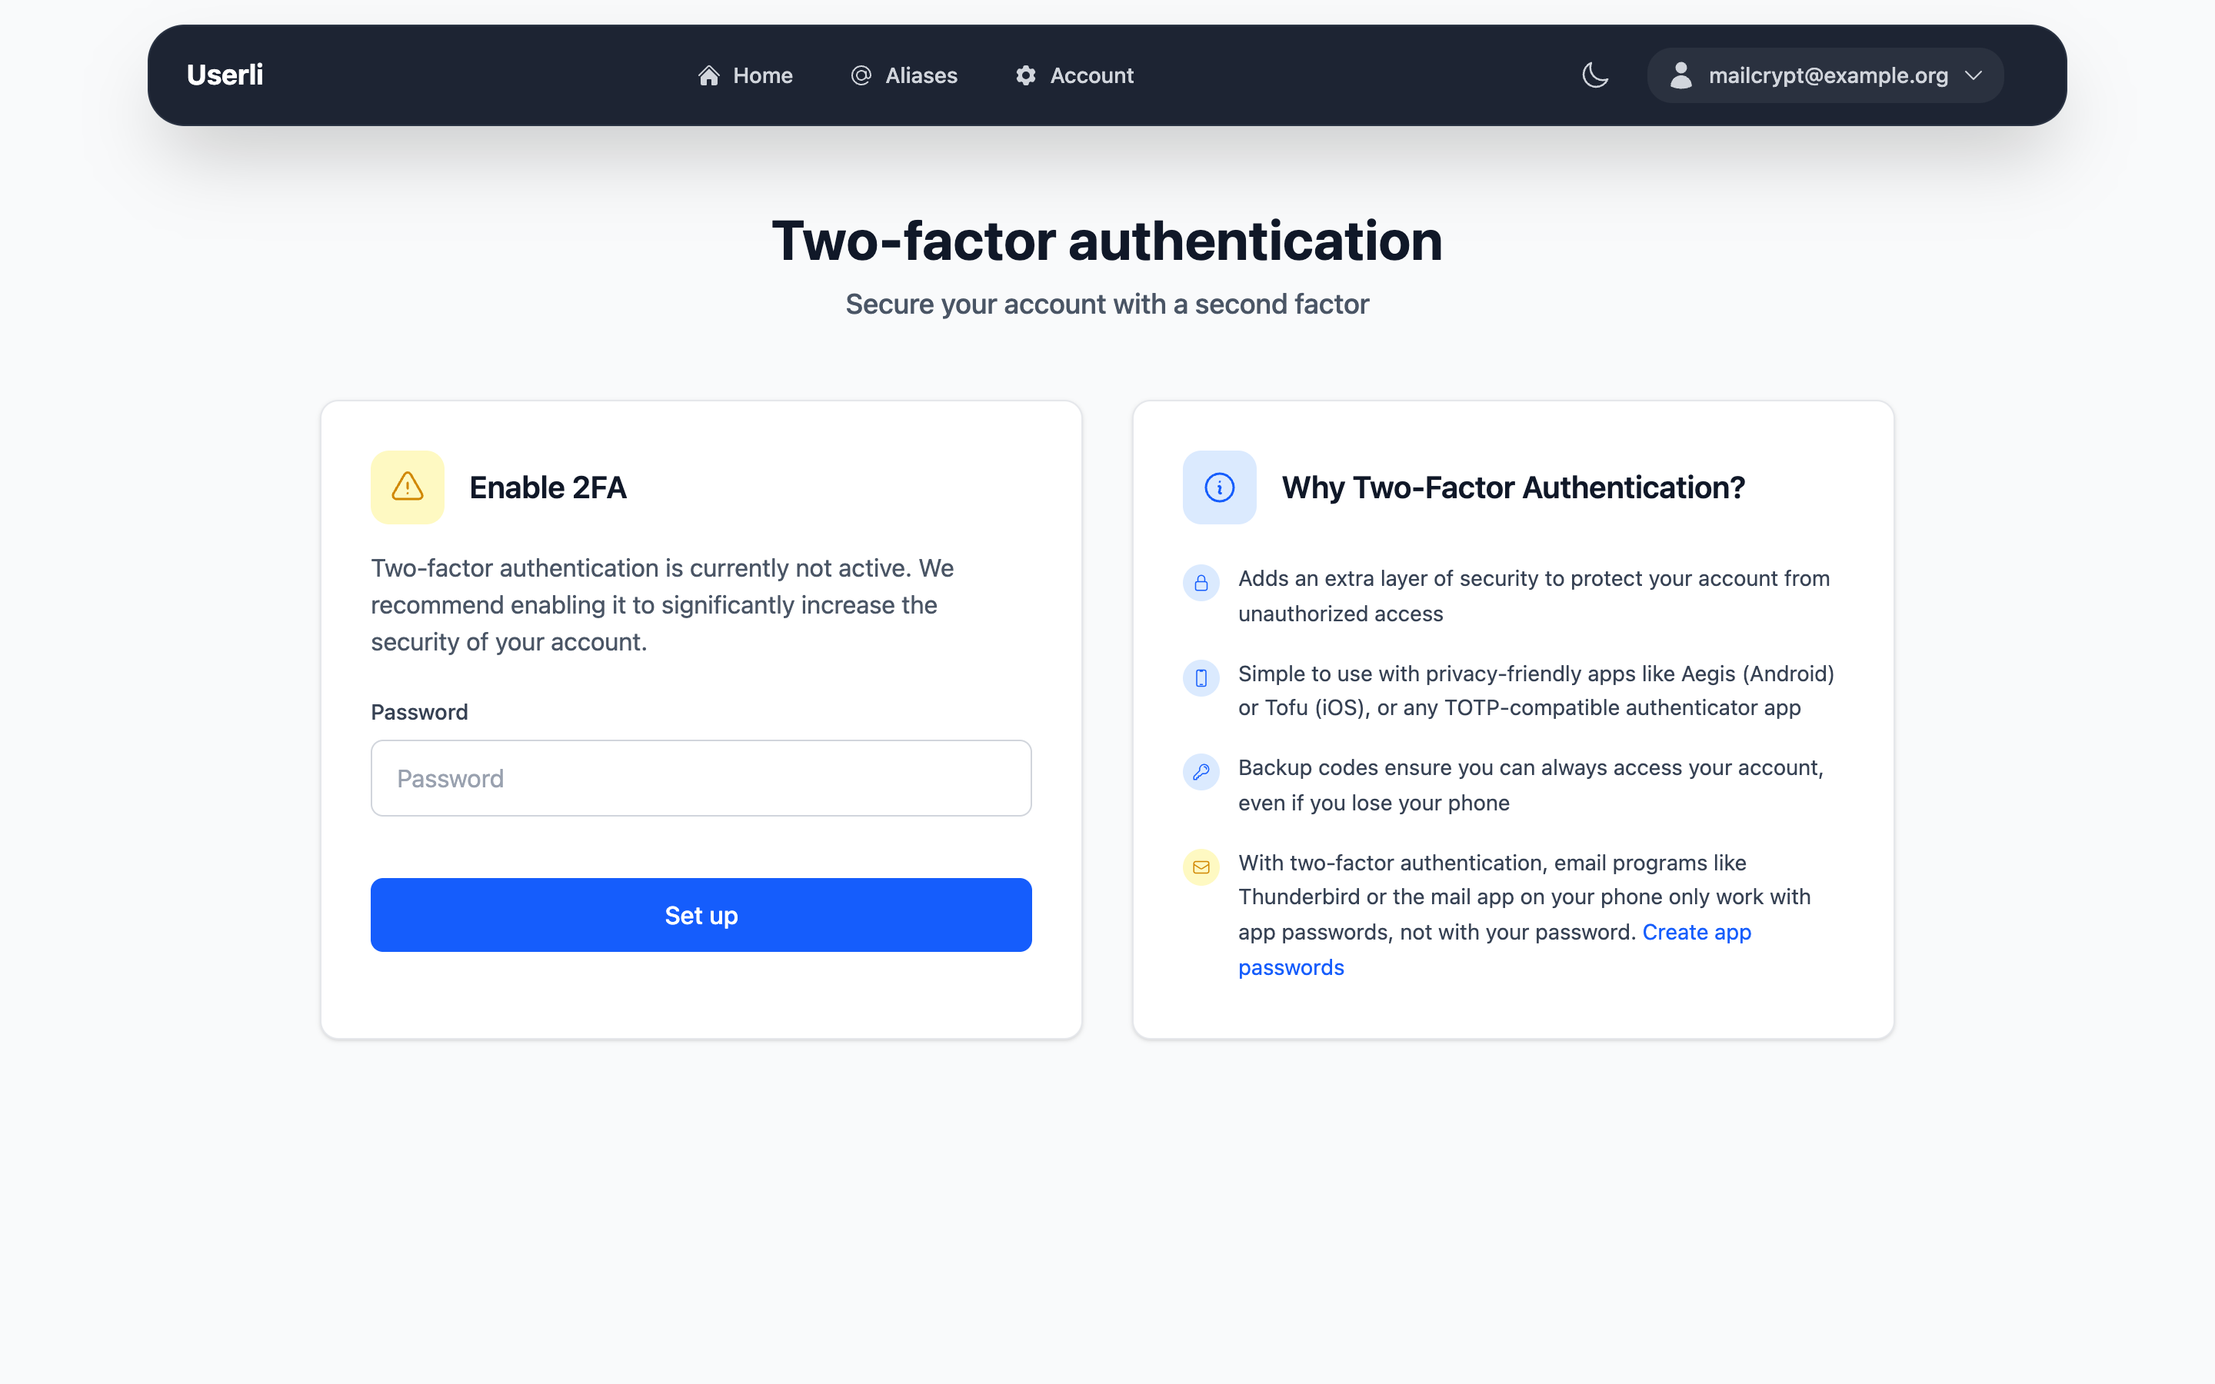
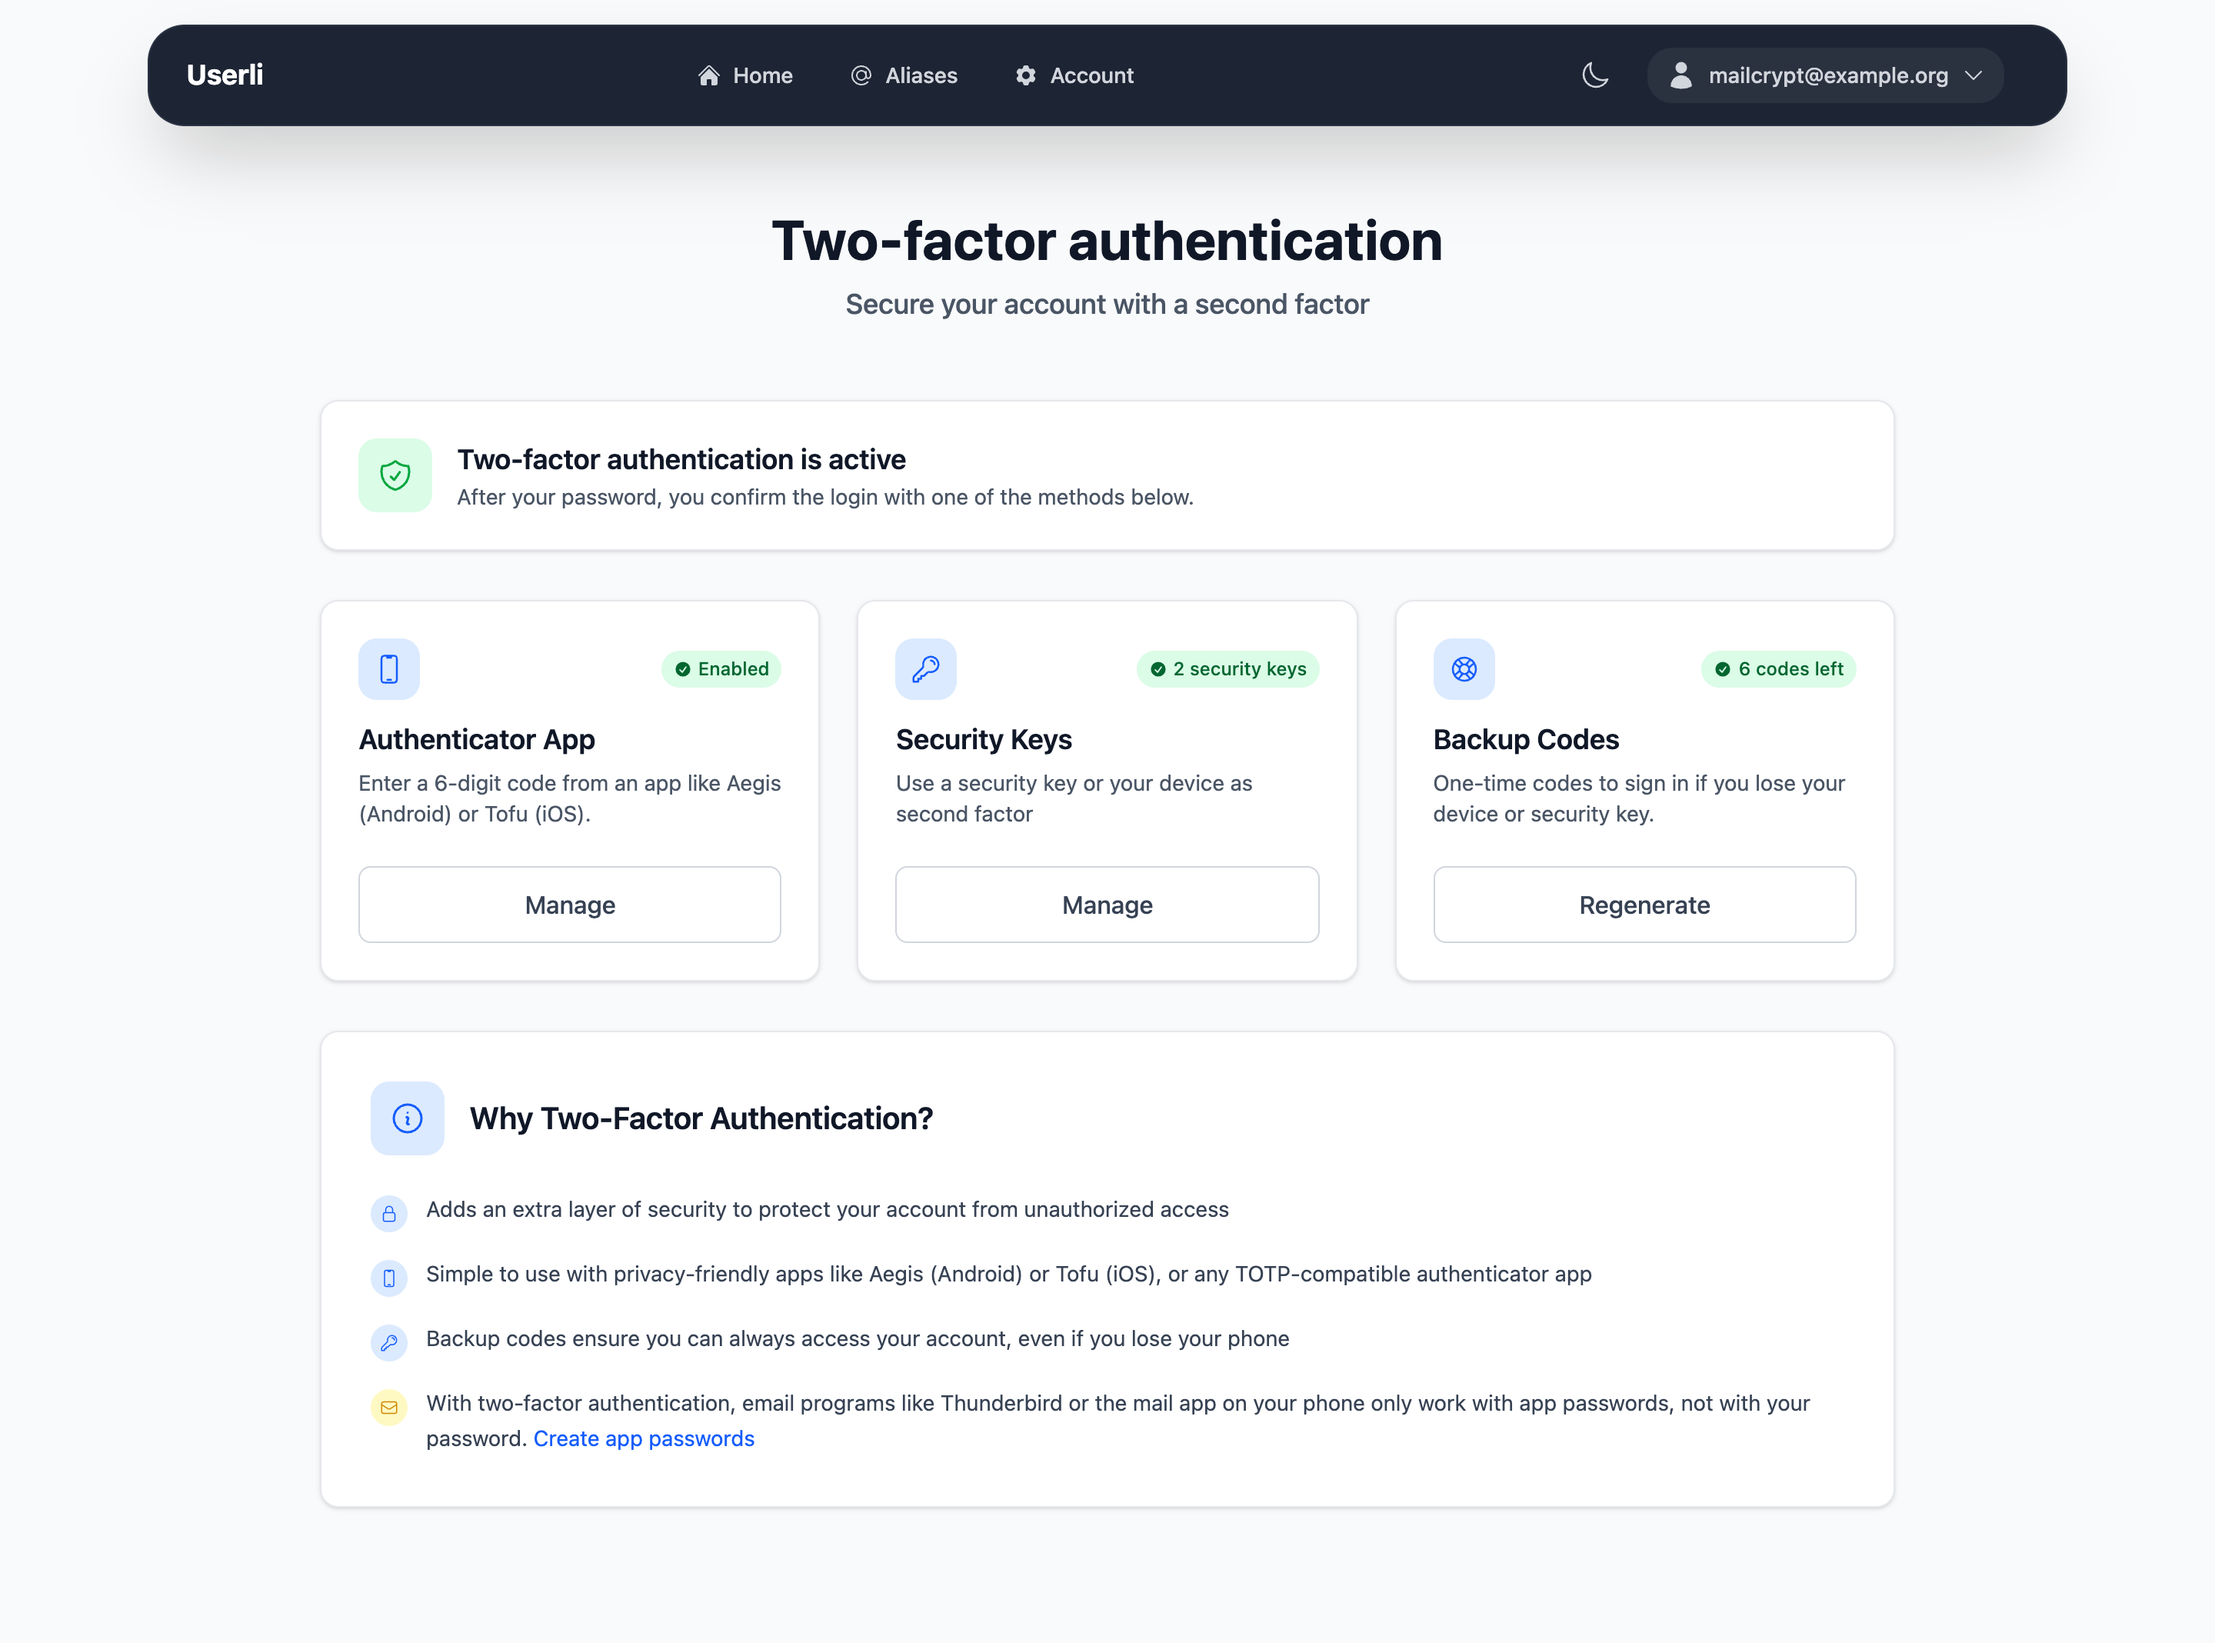
📝 Document security keys and the two-factor overview

diff --git a/docs/user/security.md b/docs/user/security.md
@@ -8,13 +8,19 @@ in if you forget your password.
 
 ![Two-factor authentication](../assets/images/twofactor.png){class="screenshot"}
 
-With two-factor authentication (2FA) you need a 6-digit code from an
-authenticator app on your phone, in addition to your password, to sign in to
-the web interface. The code changes every 30 seconds.
+With two-factor authentication (2FA) you confirm every sign-in to the web
+interface with a second factor, in addition to your password. Go to
+**Account settings → Two-Factor Authentication** to see which factors are set
+up. You can use one or several of them:
 
-You need an authenticator app (TOTP), for example
-[Aegis](https://getaegis.app/) (Android), Tofu (iOS) or the app of your
-password manager.
+- **Authenticator app**: a 6-digit code that changes every 30 seconds, from an
+  app like [Aegis](https://getaegis.app/) (Android), Tofu (iOS) or your
+  password manager.
+- **Security keys**: a USB or NFC key like a YubiKey or Nitrokey, or the screen
+  lock of your phone or computer. Security keys can't be phished: they only
+  work on the website they were added on.
+- **Backup codes**: one-time codes for when you lose your phone or key. They
+  are created when you set up your first factor.
 
 !!! note
 
@@ -22,36 +28,61 @@ password manager.
     uses Roundcube, to webmail. Depending on your provider, email programs
     then need an [app password](app-passwords.md) instead of your password.
 
-### Turn on 2FA
+### Set up an authenticator app
 
-1. Go to **Account settings → Two-Factor Authentication**.
+1. Go to **Account settings → Two-Factor Authentication** and click **Set up**
+   under *Authenticator App*.
 2. Enter your password and click **Set up**.
 3. Scan the **QR code** with your authenticator app. If you can't scan it,
    copy the **Setup Key** and enter it manually in the app.
 4. Enter the 6-digit code shown in the app under **Authentication code** and
    click **Verify**.
-5. You now see six **backup codes**. Each backup code can be used **once**
-   instead of a code from the app – for example, if you lose your phone. Copy
+5. If this is your first factor, you now see your six **backup codes**. Copy
    them and store them safely, check *Backup codes stored securely* and click
    **Verify**.
 
-2FA is now active.
+### Add a security key
 
-!!! warning
+![Security keys](../assets/images/twofactor-security-keys.png){class="screenshot"}
 
-    The backup codes are shown only once. To get new ones, turn 2FA off and on
-    again.
+1. Go to **Account settings → Two-Factor Authentication** and click **Add**
+   under *Security Keys*.
+2. Enter a **Name** that helps you recognize the key later, for example
+   *YubiKey on keychain*, and your password.
+3. Click **Add security key** and follow the instructions of your browser:
+   insert and touch the key, or confirm with your device or password manager.
+4. If this is your first factor, you now see your six **backup codes**. Store
+   them safely, check *Backup codes stored securely* and click **Verify**.
+
+Add a second key as a spare, so you can still sign in if you lose one. To
+remove a key, click the **×** next to it and confirm with your password.
+
+### Backup codes
+
+Each backup code works **once**. The overview shows how many codes are left
+and warns when only a few remain.
+
+To get new codes, click **Regenerate** under *Backup Codes* and confirm with
+your password. Your old codes stop working.
 
 ### Sign in with 2FA
 
-After entering your email address and password, open your authenticator app
-and enter the current code under **Authentication code**. Instead of the code
-you can also enter one of your unused backup codes.
+After entering your email address and password, you confirm the sign-in with
+one of your factors:
+
+- With security keys, click **Use security key** and follow the instructions
+  of your browser.
+- With an authenticator app, enter the current code under
+  **Authentication code**.
+
+The page offers to switch to your other factors. To use a backup code, click
+**Use a backup code** – or enter it instead of the code from the app.
 
 ### Turn off 2FA
 
-Go to **Account settings → Two-Factor Authentication**, enter your password and
-click **Disable**.
+Remove all security keys and turn off the authenticator app (**Manage → Disable**
+under *Authenticator App*). When the last factor is gone, 2FA is off and the
+backup codes are deleted.
 
 ## Recovery token
 

diff --git a/docs/operations/integrations/keycloak.md b/docs/operations/integrations/keycloak.md
@@ -3,10 +3,12 @@
 With the [Keycloak User Provider for Userli](https://github.com/systemli/userli-keycloak-provider),
 [Keycloak](https://www.keycloak.org/) uses Userli accounts for single sign-on.
 Users can then sign in to other services (for example Nextcloud, Matrix or a
-wiki) with their email address and password – and their Userli 2FA code.
+wiki) with their email address and password – and their Userli second factor:
+authenticator app, security key or backup code.
 
 The provider uses the `/api/keycloak/` endpoints to search users, count them
-and validate passwords and TOTP codes. Keycloak doesn't store passwords.
+and validate passwords, TOTP codes, backup codes and security keys. Keycloak
+doesn't store passwords or keys: users manage their factors in Userli only.
 
 ## On the Userli host
 
@@ -24,6 +26,32 @@ Configure the Userli URL, the domain and the API token. See the
 Keycloak's documentation on
 [user storage providers](https://www.keycloak.org/docs/latest/server_development/#_user-storage).
 
+## Two-factor authentication
+
+The provider adds two authenticators for Keycloak's browser flow:
+
+* **Userli Security Key**: Keycloak creates the challenge and shows its
+  WebAuthn login page, Userli verifies the response against the stored key.
+* **Userli Backup Code**: accepts the backup codes from Userli, also for users
+  with only security keys. The **OTP Form** accepts backup codes as well.
+
+Add both as *Alternative* next to **OTP Form** in the conditional 2FA sub-flow
+(**Condition - user configured**) of your browser flow. Users switch between
+their factors with *Try another way*.
+
+Security keys are bound to a domain, so Userli and Keycloak need a common
+parent domain, for example `users.example.org` and `login.example.org`:
+
+1. In Userli, set **Security Key Domain** to `example.org` and add the Keycloak
+   origin, e.g. `https://login.example.org`, to
+   **Additional Security Key Origins** (see [Settings](../../admin/settings.md#two-factor-authentication)).
+2. In Keycloak, set **Authentication → Policies → WebAuthn Policy → Relying
+   Party ID** to the same domain.
+
+The authenticators need version 1.1 of the provider or later. See the
+[provider README](https://github.com/systemli/userli-keycloak-provider) for
+details.
+
 ## Account status
 
 Credential validation enforces the account status like the Dovecot API:
@@ -34,10 +62,10 @@ Credential validation enforces the account status like the Dovecot API:
 | Unknown user or bad credentials |  403 | `authentication failed`    |
 | Deleted or role *Spam*          |  403 | `authentication failed`    |
 | Password change required        |  403 | `password change required` |
-| OTP requested but not enrolled  |  403 | `not supported`            |
+| Factor requested but not set up |  403 | `not supported`            |
 | Unknown credential type         |  400 | `not supported`            |
 
-Each successful validation updates the last login time of the user, so active
-Keycloak users are not removed as inactive.
+Each successful password validation updates the last login time of the user,
+so active Keycloak users are not removed as inactive.
 
 All endpoints are listed in the [API reference](../api.md#keycloak).

diff --git a/docs/operations/api.md b/docs/operations/api.md
@@ -98,11 +98,19 @@ Scope `keycloak`. Used by the [Keycloak user provider](integrations/keycloak.md)
 | `GET`  | `/api/keycloak/{domain}?search=&max=10&first=0` | Search users. Returns `[{"id": "<local part>", "email": "..."}]`. |
 | `GET`  | `/api/keycloak/{domain}/count` | Number of users in the domain. |
 | `GET`  | `/api/keycloak/{domain}/user/{email}` | Get a single user. |
-| `POST` | `/api/keycloak/{domain}/validate/{email}` | Validate a credential, body `{"credentialType": "password"\|"otp", "password": "..."}`. App passwords are rejected. |
-| `GET`  | `/api/keycloak/{domain}/configured/{credentialType}/{email}` | Whether the user has the credential type (e.g. `otp`) configured. |
+| `POST` | `/api/keycloak/{domain}/validate/{email}` | Validate a credential, body `{"credentialType": "password"\|"otp"\|"backup-code", "password": "..."}`. App passwords are rejected. |
+| `POST` | `/api/keycloak/{domain}/validate/webauthn/{email}` | Validate a security key assertion, body `{"challenge", "credentialId", "clientDataJSON", "authenticatorData", "signature", "userHandle"}`, all base64url encoded. `userHandle` is optional. |
+| `GET`  | `/api/keycloak/{domain}/credentials/webauthn/{email}` | Security keys of the user: `[{"id", "name", "credentialId", "transports", "createdAt"}]`. |
+| `GET`  | `/api/keycloak/{domain}/configured/{credentialType}/{email}` | Whether the user has the credential type (`password`, `otp`, `webauthn` or `backup-code`) configured. |
 
-For `otp`, `password` is the 6-digit TOTP code **or** a backup code – a
-matching backup code is consumed. See [Keycloak](integrations/keycloak.md#account-status)
+For `otp`, `password` is the 6-digit TOTP code **or** a backup code. For
+`backup-code`, it is a backup code; this works for every user with 2FA, also with
+only security keys. A matching backup code is consumed.
+
+For `webauthn/{email}`, Keycloak passes the challenge it created. Userli checks
+that the origin in `clientDataJSON` is the application URL or one of the
+*Additional Security Key Origins*, the RP ID hash, the challenge, the signature
+and the sign counter. See [Keycloak](integrations/keycloak.md#account-status)
 for status codes.
 
 ## Retention

diff --git a/docs/admin/settings.md b/docs/admin/settings.md
@@ -45,11 +45,22 @@ migrate existing users. Keep the default unless you know why to change it.
 | Setting                               | Default | Description |
 |---------------------------------------|---------|-------------|
 | **Require app passwords with 2FA**    | on      | Users with 2FA can sign in to mail programs (IMAP, SMTP) only with [app passwords](../user/app-passwords.md), not with their password. |
+| **Security Key Domain**               | empty   | Domain that [security keys](../user/security.md#add-a-security-key) are bound to (WebAuthn RP ID), e.g. `example.org`. Empty means the host of the application URL. |
+| **Additional Security Key Origins**   | empty   | Further origins that may use security keys, one per line, e.g. `https://login.example.org` for [Keycloak](../operations/integrations/keycloak.md). The application URL is always allowed. |
 
 Upgraded installations start with this setting off, so mail programs of
 existing 2FA users keep working. Tell your users to create app passwords before
 you turn it on. Webmail needs the
 [Roundcube plugin](../operations/integrations/roundcube.md) to sign in with 2FA.
+Users with only security keys sign in to webmail with a backup code.
+
+!!! warning
+
+    Security keys only work on the domain they were added for. The security key
+    domain must be the host of the application URL or a parent domain of it, and
+    changing it later makes all registered security keys unusable. Set a parent
+    domain like `example.org` from the start if other services, for example
+    Keycloak on `login.example.org`, should accept the keys too.
 
 ## Reports
 

diff --git a/UPGRADE.md b/UPGRADE.md
@@ -1,5 +1,27 @@
 # Upgrade documentation
 
+## Upgrade to 6.13.0
+
+### Security keys (WebAuthn) as second factor
+
+Users can add security keys as second factor. The migration adds the table
+`webauthn_credentials`.
+
+**Action required:**
+
+1. Run the database migration:
+   ```shell
+   bin/console doctrine:migrations:migrate --no-interaction
+   ```
+2. Security keys are bound to a domain, by default the host of the application
+   URL. If other services like Keycloak should accept them, set
+   [Security Key Domain and Additional Security Key Origins](docs/admin/settings.md#two-factor-authentication)
+   in **Admin → Settings** before users add keys. Changing the domain later makes
+   registered keys unusable.
+3. For security keys and backup codes in Keycloak, update the
+   [Keycloak provider](docs/operations/integrations/keycloak.md#two-factor-authentication)
+   and add its new authenticators to the browser flow.
+
 ## Upgrade to 6.11.0
 
 ### App passwords required with 2FA

diff --git a/docs/admin/users.md b/docs/admin/users.md
@@ -54,7 +54,8 @@ Users created in the admin interface:
 The same fields as above, except the email address. Additionally:
 
 * **Two-factor authentication:** uncheck to turn off 2FA for a user who lost
-  their phone and backup codes.
+  their phone, security keys and backup codes. This removes the authenticator
+  app, all security keys and the backup codes.
 
 ### Set a new password
 
@@ -70,7 +71,7 @@ password and their [recovery token](../user/recovery.md).
       unreadable,
     * a new recovery token is created and shown to you once – pass it on to
       the user securely,
-    * two-factor authentication is turned off,
+    * two-factor authentication is turned off and all security keys are removed,
     * all app passwords are deleted,
     * the `user.reset` [webhook](webhooks.md) is sent.
 
